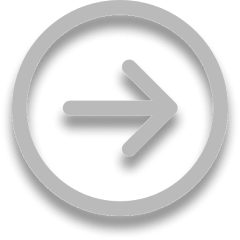
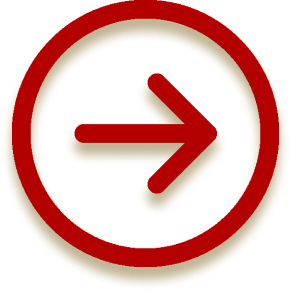
Add New Styles - NEXT add homescreen

diff --git a/pokemonteambuilder/client/src/pages/TeamReviewBase.tsx b/pokemonteambuilder/client/src/pages/TeamReviewBase.tsx
@@ -12,6 +12,8 @@ import {MyTeam} from '../components/MyTeam';
 import {ScrollView} from 'react-native-gesture-handler';
 import {TeamReview} from '../components/TeamReview';
 import styles from '../styles/index';
+import {updatePokemonBackgrounds} from '../state/slices/teamSlice';
+import {useDispatch} from 'react-redux';
 import {useNavigation} from '@react-navigation/native';
 import {useSelector} from 'react-redux';
 
@@ -33,9 +35,13 @@ export interface MergedTypeEffectiveness {
 }
 
 export const TeamReviewBase = () => {
+  const [typeSelected, setTypeSelected] = useState(null);
   const navigation = useNavigation();
+  const dispatch = useDispatch();
   const handleProceedBtn = () => {
     navigation.navigate('TeamBuilder');
+    setTypeSelected(null);
+    dispatch(updatePokemonBackgrounds(undefined));
   };
   const [teamEffectiveness, setTeamEffectiveness] = useState<
     MergedTypeEffectiveness[]
@@ -71,10 +77,14 @@ export const TeamReviewBase = () => {
           </TouchableWithoutFeedback>
         </View>
         <ScrollView>
-          <Text style={styles.reviewBase.matchUpsTitle}>Team Match Ups:</Text>
-          <TeamReview teamEffectiveness={teamEffectiveness} />
+          <Text style={styles.reviewBase.matchUpsTitle}>Results:</Text>
+          <TeamReview
+            typeSelected={typeSelected}
+            setTypeSelected={setTypeSelected}
+            teamEffectiveness={teamEffectiveness}
+          />
         </ScrollView>
-        <Text style={styles.reviewBase.matchUpsSubtitle}>Team Match Ups:</Text>
+        <Text style={styles.reviewBase.matchUpsSubtitle}>My Team:</Text>
         <View style={styles.reviewBase.teamContainer}>
           {userTeam.map((p: Pokemon) => {
             return (

diff --git a/pokemonteambuilder/client/src/components/TypeEvaluation.tsx b/pokemonteambuilder/client/src/components/TypeEvaluation.tsx
@@ -1,6 +1,6 @@
+import React, {useState} from 'react';
 import {StyleSheet, Text, TouchableWithoutFeedback, View} from 'react-native';
 
-import React from 'react';
 import styles from '../styles/index';
 import {updatePokemonBackgrounds} from '../state/slices/teamSlice';
 import {useDispatch} from 'react-redux';
@@ -8,27 +8,46 @@ import {useDispatch} from 'react-redux';
 interface IProps {
   typeValue: number;
   typeName: string;
+  index: number;
+  setTypeSelected: React.Dispatch<React.SetStateAction<number>>;
+  underlined: boolean;
 }
 
-export const TypeEvaluation = ({typeValue, typeName}: IProps) => {
+export const TypeEvaluation = ({
+  typeValue,
+  typeName,
+  index,
+  underlined,
+  setTypeSelected,
+}: IProps) => {
   const dispatch = useDispatch();
+
   const handlePress = () => {
     dispatch(updatePokemonBackgrounds(typeName));
+    setTypeSelected(index);
   };
+
   return (
     <TouchableWithoutFeedback onPress={handlePress}>
       <View style={styles.typeEvaluation.container}>
         <Text
-          style={
+          style={[
             typeValue !== 1
               ? typeValue > 1
                 ? styles.typeEvaluation.strong
                 : styles.typeEvaluation.weak
-              : null
-          }>
+              : null,
+            underlined && styles.typeEvaluation.underlined,
+          ]}>
           {typeValue}
         </Text>
-        <Text style={styles.typeEvaluation.typeName}>{typeName}</Text>
+        <Text
+          style={[
+            styles.typeEvaluation.typeName,
+            underlined && styles.typeEvaluation.underlined,
+          ]}>
+          {typeName}
+        </Text>
       </View>
     </TouchableWithoutFeedback>
   );

diff --git a/pokemonteambuilder/client/src/components/TeamReview.tsx b/pokemonteambuilder/client/src/components/TeamReview.tsx
@@ -4,6 +4,7 @@ import {StyleSheet, View} from 'react-native';
 import {MyTeam} from './MyTeam';
 import {TypeEvaluation} from './TypeEvaluation';
 import pokemonTypes from '../types/pokemonTypes';
+import styles from '../styles';
 import {useSelector} from 'react-redux';
 
 interface TypeEffectiveness {
@@ -24,30 +25,29 @@ export interface MergedTypeEffectiveness {
 
 interface IProps {
   teamEffectiveness: MergedTypeEffectiveness[];
+  typeSelected: number;
+  setTypeSelected: React.Dispatch<React.SetStateAction<number>>;
 }
 
-export const TeamReview = ({teamEffectiveness}: IProps) => {
+export const TeamReview = ({
+  typeSelected,
+  setTypeSelected,
+  teamEffectiveness,
+}: IProps) => {
   return (
-    <View style={styles.container}>
+    <View style={styles.teamReview.container}>
       {teamEffectiveness.map((type, i) => {
         return (
           <TypeEvaluation
             key={i}
             typeName={type.typeName}
             typeValue={type.typeValue}
+            index={i}
+            underlined={typeSelected === i}
+            setTypeSelected={setTypeSelected}
           />
         );
       })}
     </View>
   );
 };
-
-const styles = StyleSheet.create({
-  container: {
-    flex: 1,
-    flexDirection: 'row',
-    flexWrap: 'wrap',
-    alignItems: 'center',
-    overflow: 'visible',
-  },
-});

diff --git a/pokemonteambuilder/client/src/pages/TeamBuilderBase.tsx b/pokemonteambuilder/client/src/pages/TeamBuilderBase.tsx
@@ -5,8 +5,10 @@ import {TeamBuilder} from '../components/TeamBuilder';
 import {TouchableWithoutFeedback} from 'react-native-gesture-handler';
 import styles from '../styles/index';
 import {useNavigation} from '@react-navigation/native';
+import {useSelector} from 'react-redux';
 
 export const TeamBuilderBase = () => {
+  const userTeam = useSelector((state: any) => state.team);
   const navigation = useNavigation();
   const handleProceedBtn = () => {
     navigation.navigate('TeamReview');
@@ -18,14 +20,14 @@ export const TeamBuilderBase = () => {
       <SafeAreaView>
         <Text style={styles.builderBase.title}>Pokemon Team Builder</Text>
         <TeamBuilder />
-        <View style={styles.builderBase.proceedBtnContainer}>
-          <TouchableWithoutFeedback onPress={handleProceedBtn}>
-            <Image
-              source={require('../assets/images/go-arrow.png')}
-              style={styles.builderBase.proceedBtnImage}
-            />
+
+        {userTeam.length > 0 && (
+          <TouchableWithoutFeedback
+            style={styles.buttons.container}
+            onPress={handleProceedBtn}>
+            <Text style={styles.buttons.text}>Proceed</Text>
           </TouchableWithoutFeedback>
-        </View>
+        )}
       </SafeAreaView>
     </ImageBackground>
   );

diff --git a/pokemonteambuilder/client/src/styles/buttons.ts b/pokemonteambuilder/client/src/styles/buttons.ts
@@ -1,0 +1,30 @@
+import {StyleSheet} from 'react-native';
+
+const button = StyleSheet.create({
+  container: {
+    backgroundColor: 'maroon',
+    paddingVertical: 12,
+    paddingHorizontal: 20,
+    borderRadius: 20,
+    marginVertical: 20,
+    shadowColor: 'beige',
+    shadowOffset: {width: 0, height: 2},
+    shadowOpacity: 0.25,
+    shadowRadius: 2,
+    elevation: 2,
+    borderWidth: 1,
+    borderColor: 'black',
+  },
+  text: {
+    fontSize: 18,
+    fontWeight: '600',
+    textAlign: 'center',
+    color: 'white',
+    fontFamily: 'PressStart2P-Regular',
+    textShadowColor: 'grey',
+    textShadowOffset: {width: 2, height: 2},
+    textShadowRadius: 5,
+  },
+});
+
+export default button;

diff --git a/pokemonteambuilder/client/src/styles/builderBase.ts b/pokemonteambuilder/client/src/styles/builderBase.ts
@@ -11,6 +11,11 @@ export default StyleSheet.create({
     fontSize: 30,
     fontWeight: '600',
     textAlign: 'center',
+    color: '#B30000',
+    fontFamily: 'PressStart2P-Regular',
+    textShadowColor: 'beige',
+    textShadowOffset: {width: 2, height: 2},
+    textShadowRadius: 5,
   },
   proceedBtnContainer: {
     width: '100%',
@@ -18,8 +23,9 @@ export default StyleSheet.create({
     alignItems: 'center',
   },
   proceedBtnImage: {
-    height: 90,
-    width: 90,
-    opacity: 0.6,
+    height: 110,
+    width: 110,
+    marginTop: 5,
+    opacity: 0.8,
   },
 });

diff --git a/pokemonteambuilder/client/src/styles/teamPicker.ts b/pokemonteambuilder/client/src/styles/teamPicker.ts
@@ -3,13 +3,20 @@ import {StyleSheet} from 'react-native';
 export default StyleSheet.create({
   container: {
     flex: 1,
-
     marginTop: 15,
+    shadowColor: '#000',
+    shadowOpacity: 0.3,
+    shadowRadius: 3,
+    shadowOffset: {
+      width: 0,
+      height: 3,
+    },
+    elevation: 4,
   },
   input: {
     height: 40,
     borderColor: 'gray',
-    backgroundColor: 'rgba(255, 255, 255, 0.8)',
+    backgroundColor: 'rgba(255, 255, 255, 0.9)',
     borderWidth: 1,
     paddingLeft: 10,
   },

diff --git a/pokemonteambuilder/client/src/styles/reviewBase.ts b/pokemonteambuilder/client/src/styles/reviewBase.ts
@@ -19,13 +19,17 @@ export default StyleSheet.create({
   },
   matchUpsTitle: {
     paddingTop: 25,
-    fontSize: 30,
+    fontSize: 26,
     fontWeight: '600',
+    color: 'rgba(41, 50, 60, 0.9)',
+    fontFamily: 'PressStart2P-Regular',
   },
   matchUpsSubtitle: {
     paddingTop: 25,
-    fontSize: 21,
-    fontWeight: '500',
+    fontSize: 19,
+    color: 'rgba(41, 50, 60, 0.9)',
+    fontWeight: '400',
+    fontFamily: 'PressStart2P-Regular',
   },
   teamContainer: {
     flexDirection: 'row',

diff --git a/pokemonteambuilder/client/src/styles/index.ts b/pokemonteambuilder/client/src/styles/index.ts
@@ -1,13 +1,17 @@
 import builderBase from './builderBase';
+import buttons from './buttons';
 import myTeam from './myTeam';
 import reviewBase from './reviewBase';
 import teamPicker from './teamPicker';
+import teamReview from './teamReview';
 import typeEvaluation from './typeEvaluation';
 
 export default {
   myTeam,
   builderBase,
   teamPicker,
+  buttons,
+  teamReview,
   reviewBase,
   typeEvaluation,
 };

diff --git a/pokemonteambuilder/client/src/state/slices/teamSlice.tsx b/pokemonteambuilder/client/src/state/slices/teamSlice.tsx
@@ -50,7 +50,7 @@ const teamSlice = createSlice({
       state.forEach(pokemon => {
         const typeEffectiveness = pokemon.typeEffectiveness[type];
         if (typeEffectiveness === undefined) {
-          return;
+          pokemon.pokemonBackgroundColor = 'rgba(255, 255, 255, 0.8)';
         }
         if (typeEffectiveness < 1) {
           pokemon.pokemonBackgroundColor = 'rgba(139, 199, 154, 0.9)';

diff --git a/pokemonteambuilder/client/src/styles/teamReview.ts b/pokemonteambuilder/client/src/styles/teamReview.ts
@@ -1,0 +1,11 @@
+import {StyleSheet} from 'react-native';
+
+export default StyleSheet.create({
+  container: {
+    flex: 1,
+    flexDirection: 'row',
+    flexWrap: 'wrap',
+    alignItems: 'center',
+    overflow: 'visible',
+  },
+});

diff --git a/pokemonteambuilder/client/src/styles/typeEvaluation.ts b/pokemonteambuilder/client/src/styles/typeEvaluation.ts
@@ -17,4 +17,7 @@ export default StyleSheet.create({
   typeName: {
     fontSize: 16,
   },
+  underlined: {
+    fontWeight: '800',
+  },
 });
